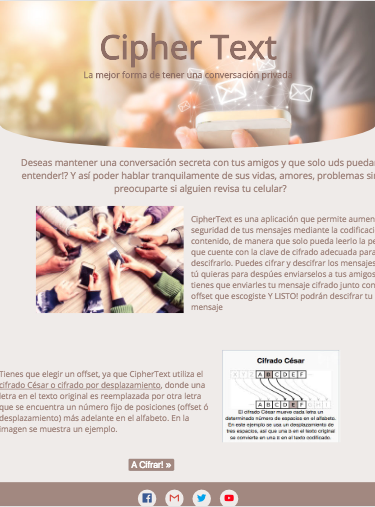
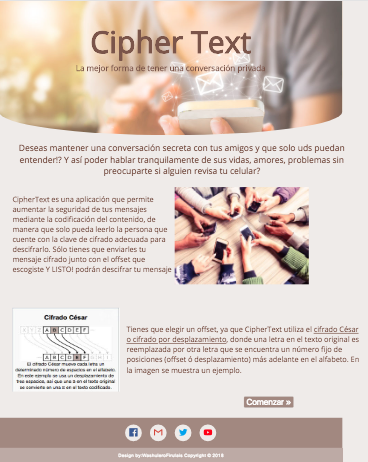
readme7

diff --git a/src/style.css b/src/style.css
@@ -81,6 +81,7 @@ header .overlay{
   text-align: left;
   padding-bottom: 100px;
   padding-top: 50px;
+  padding-left: 40px;
 
 }
 
@@ -92,20 +93,19 @@ header .overlay{
 
 #imgcifrado {
   margin-bottom: 30px;
-  float: right;
-  padding-right: 100px;
-  padding-left: 20px;
+  float: left;
+  padding-left: 100px;
+  padding-right: 20px;
   width: 320px;
   height: 250px;
 }
 
 #imgphone {
-  float: left;
+  float: right;
   width: 400px;
   height: 290px;
   padding-top: 30px;
-  padding-left: 100px;
-  padding-right: 20px;
+  padding-right: 100px;
 
 }
 
@@ -221,32 +221,6 @@ a{
 }
 #socialmedia li a i{
   line-height: 50px;
-}
-.footer-menu-one{
-  width: 100%;
-  height: auto;
-  margin: auto;
-  margin-top: 20px;
-}
-.footer-menu-one ul{
-  margin: 0px;
-  padding: 0px;
-  text-align: center;
-}
-.footer-menu-one ul li {
-  display: inline-block;
-  margin: 0px 15px;
-}
-.footer-menu-one ul li a{
-  font-family: arial;
-  font-size: px;
-  font-weight: 600;
-  color: #fff;
-  letter-spacing: 1px;
-  text-transform: uppercase;
-}
-.footer-menu-one ul li a:hover{
-  color: #272727;
 }
 
 .footer-bottom{

diff --git a/src/index.html b/src/index.html
@@ -34,7 +34,7 @@
         otra letra que se encuentra un número fijo de posiciones (offset ó desplazamiento) más adelante en el alfabeto. En la imagen
         se muestra un ejemplo. <br> </p> <br><br>
         <br>
-        <button class="boton" id="botonNext"> A Cifrar! &raquo</button>
+        <button class="boton" id="botonNext"> Comenzar &raquo</button>
     </div>
 
     <div id="myDiv1"> <br>
@@ -64,7 +64,7 @@
     </div>
     </div>
     <div class="footer-bottom">
-      <p>Design by: <a href="#">ksldjsadlkjsd</a></p></div>
+      <p>Design by:WashuleroFirulais <a href="#">Copyright © 2018</a></p></div>
 
     <div id="root"></div>
     <script src="cipher.js"></script>

diff --git a/README.md b/README.md
@@ -1,10 +1,10 @@
 # Introducción
 CipherText es una aplicación para mantener una conversación privada/secreta con
-tus amigos, familia o quien tu quieras y que solo uds puedan descifrar. CipherText aumenta la seguridad de tus mensajes mediante la codificación del contenido, de manera que solo pueda leerlo la persona que cuente con la clave de cifrado adecuada para descifrarlo. La aplicación cifra y descifra mensajes basándose en el Cifrado César.
+tus amigos, familia o quien tu quieras y que solo uds puedan descifrar. CipherText aumenta la seguridad de tus mensajes mediante la codificación del contenido, de manera que solo pueda leerlo la persona que cuente con la clave de cifrado adecuada para descifrarlo.
 La idea es que ingreses el mensaje que quieres cifrar y además escojas un desplazamiento que va ser determinante para obtener tu mensaje codificado, el cual podrás enviarselo a tus amigos junto con el offset elegido y así ellos podrán ingresar a CipherText y descifrar tu mensaje.
 
 ¿Qué es el cifrado César?
-
+CipherText cifra y descifra mensajes basándose en el Cifrado César.
 El cifrado césar es una de las técnicas más simples para cifrar un mensaje. Es un tipo de cifrado por sustitución, es decir que cada letra del texto original es reemplazada por otra que se encuentra un número fijo de posiciones (desplazamiento) más adelante en el mismo alfabeto.
 
 # Instalación
@@ -18,6 +18,7 @@ y familia, idealmente dependientes del celular o que pasen mucho tiempo en rrss.
 
 # Necesidad ¿Para qué?
 Principalmente para que los usuarios puedan mantener conversaciones realmente privadas y secretas con la o las personas que ellos deseen en el caso de que en su entorno exista alguien que les revisa el celular, también  en caso de pérdida de este sus conversaciones no se filtren o publiquen sin su consentimiento o que simplemente quieren que sus conversaciones no se lean fácilmente a simple vista.
+
 
 # Historia de usuario
 
@@ -46,7 +47,7 @@ el offset o desplazamiento que ser requerido más adelante
 - Luego debe presionar el botón de cifrar o descifrar según sea el caso
 - El mensaje cifrado o descifrado será presentado en otra caja de texto que se encontrara debajo del recuadro del offset
 - El usuario puede copiar su mensaje cifrado y a través de los links que se encuentran al final de la página
-acceder más rápido a la rrss de su preferencia para enviar ese mensaje codificado a quien desee. 
+acceder más rápido a la rrss de su preferencia para enviar ese mensaje codificado a quien desee.
 - Por último el usuario tendrá la opción de volver a la página principal presionando el botón Volver que se encuentra al final de la página
 ***
 
@@ -60,11 +61,14 @@ Para ejecutar los test se debe correr la instrucción "npm test". El resultado e
 
 - El principal cambio con respecto al primer sketch presentado es que finalmente se decidió especificar las instrucciones en la segunda pantalla para no abrumar al usuario con tanto texto en la primera pantalla y así dejarla un poco más clara y precisa.
 
-- La gama de colores elegida fue con la finalidad de darle confianza al usuario,
-que su imagen fuera de una página confiable y a la vez neutra (para Hombres
-y mujeres) que se vea clara, luminosa, simple
+- Los parrafos están dispuestos de esa manera ya que existen estudios donde se comprueba que para el ojo humano es más fácil comenzar a leer de izquierda a derecha.
 
-- Las dos imagenes principales de la página escogidas fueron escogidas con la finalidad de contagiar al usuario las ganas de usar la app en su celular y a la vez mostrar la conectividad al ver muchas manos y celulares idealmente enviandose mensajes. Son imagénes que reprensentan a los amigos junto con la tecnología y la conectividad de hoy en día.
+- La gama de colores elegida fue con la finalidad de darle confianza al usuario, que su imagen fuera de una página confiable y a la vez neutra (para Hombres y mujeres) que se vea clara, luminosa, simple.
+Esta paleta la obtuve de la página https://materializecss.com/color.html y la que utilice fue la siguiente:
+
+![Paleta de colores](Paletadecolores.png)
+
+- Una de las imágenes de la página escogida fue con la finalidad de contagiar al usuario las ganas de usar la app en su celular y a la vez mostrar la conectividad al ver muchas manos y celulares, idealmente enviandose mensajes. Son imagénes que reprensentan a los amigos junto con la tecnología y la conectividad de hoy en día.
 
 ![Imagen celulares](ImgProyecto1/celulares.jpg)
 
